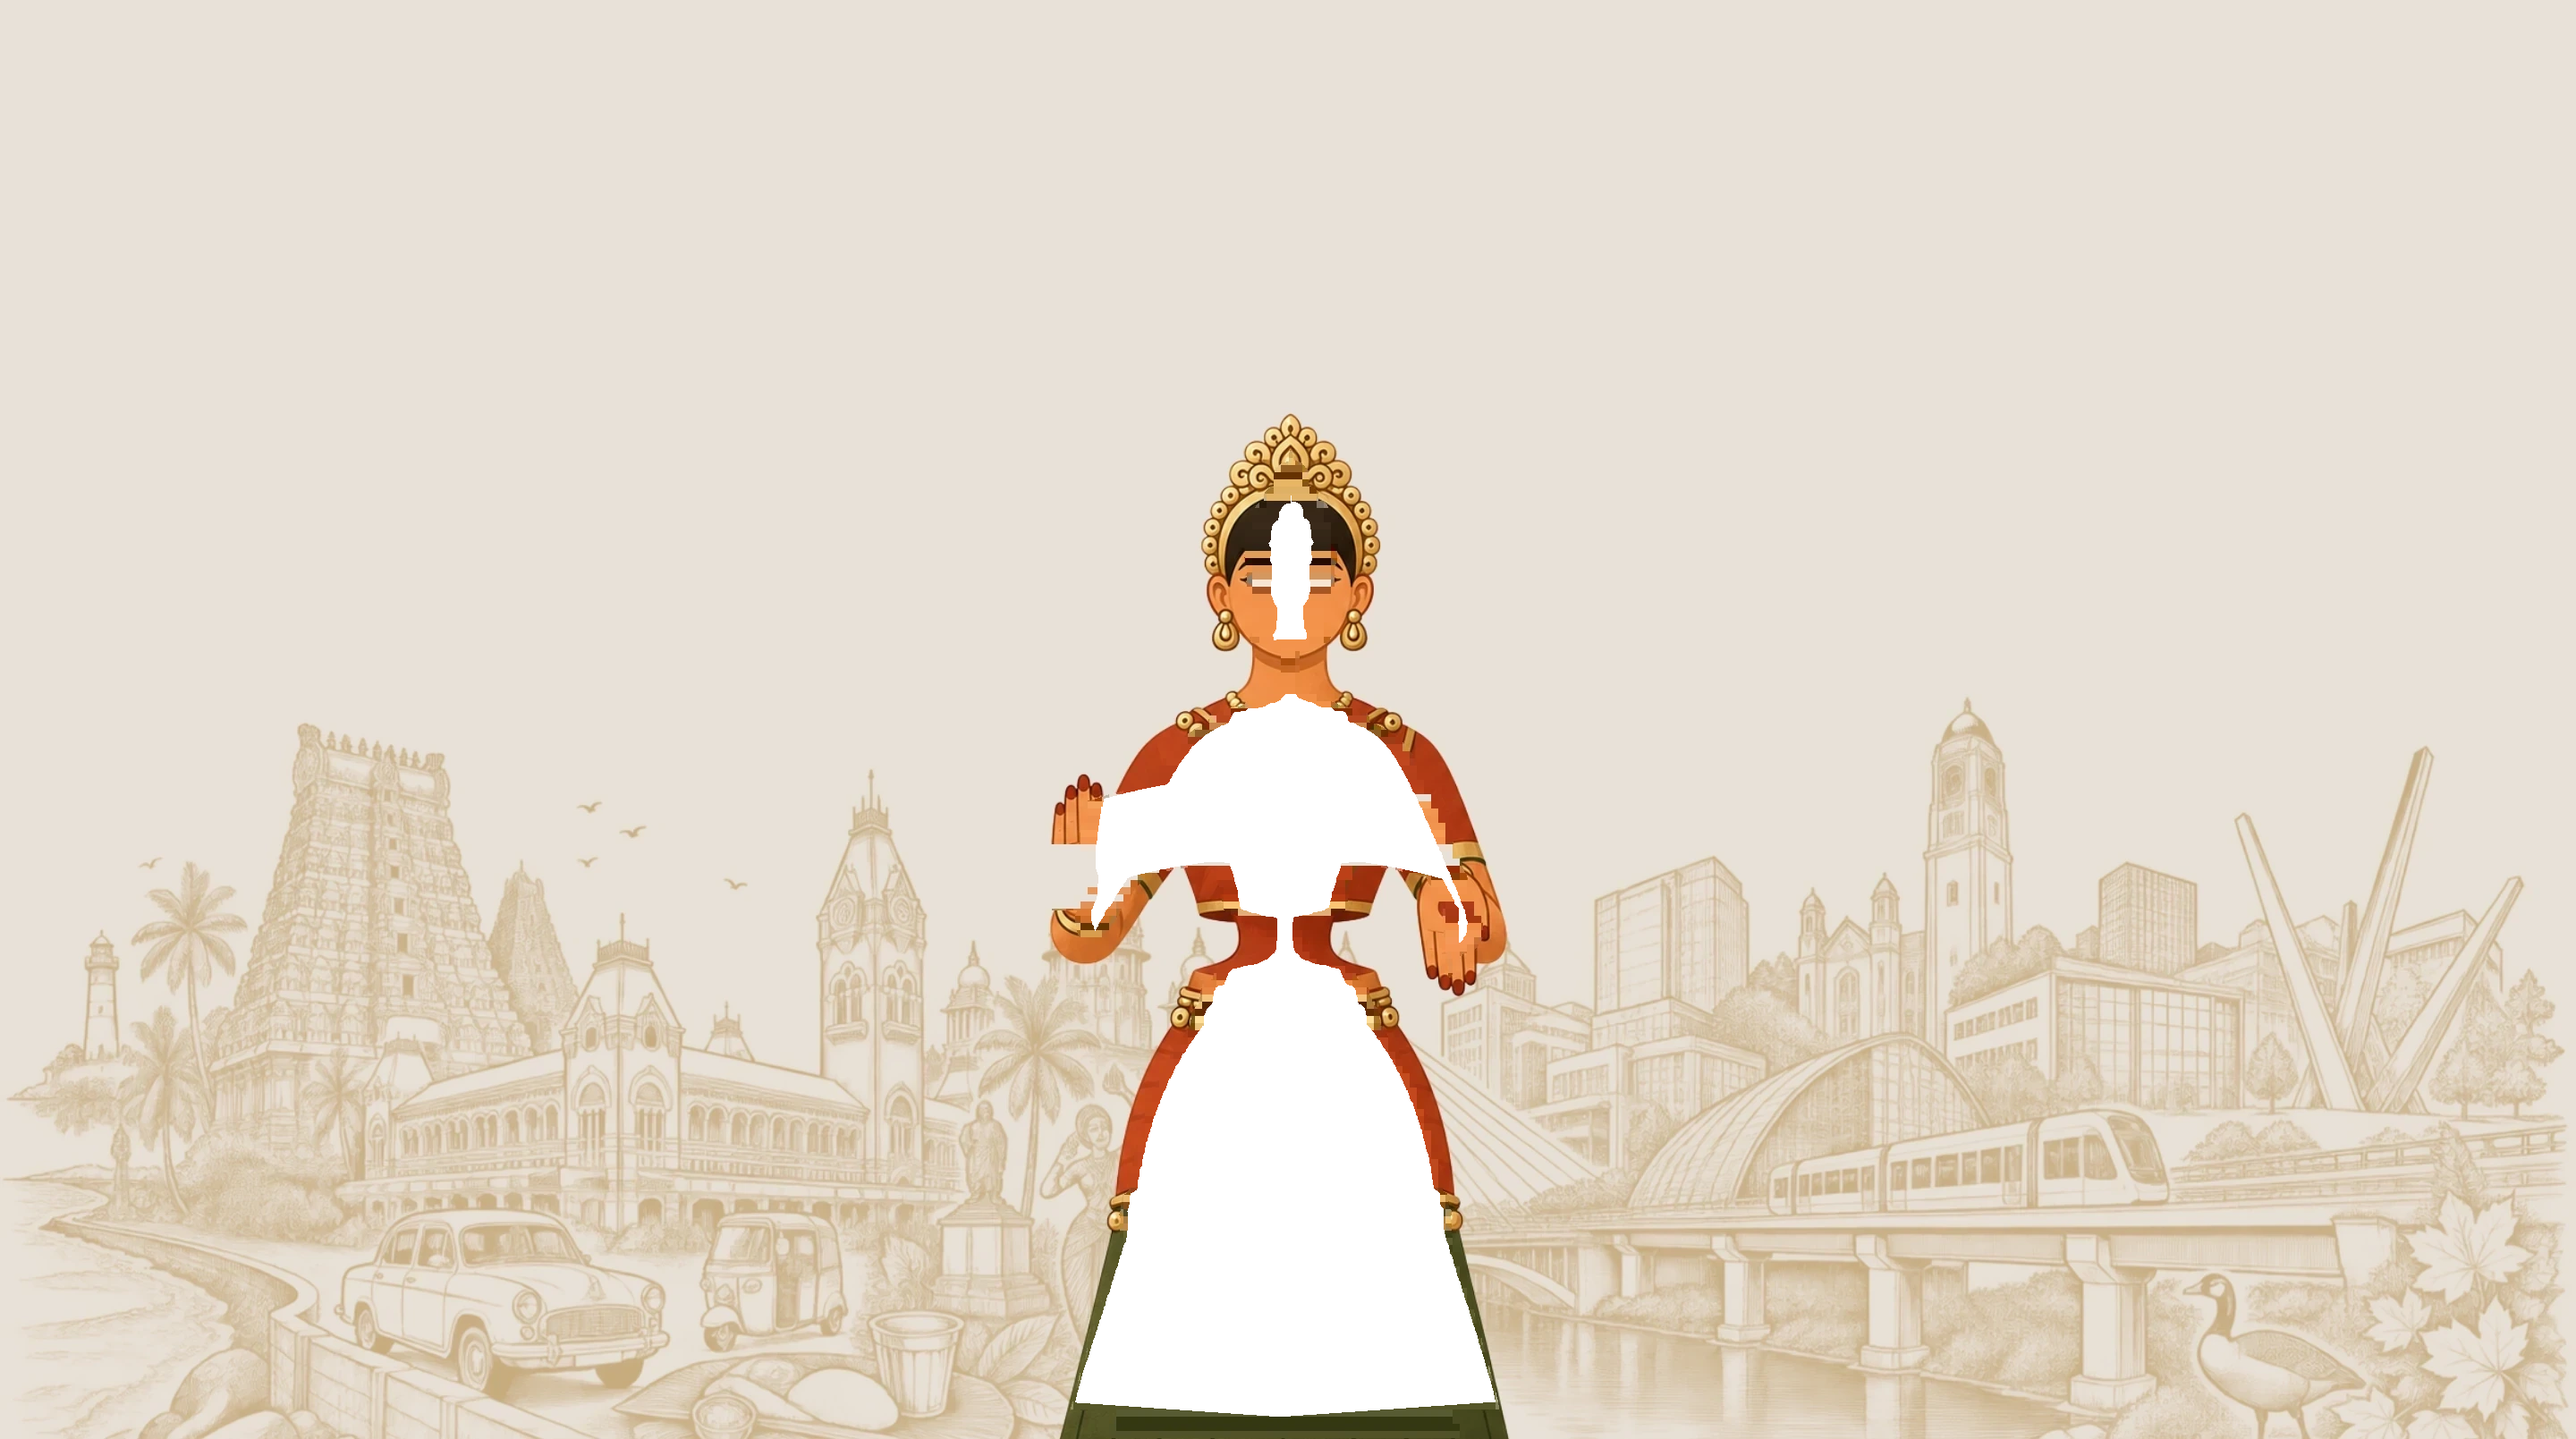
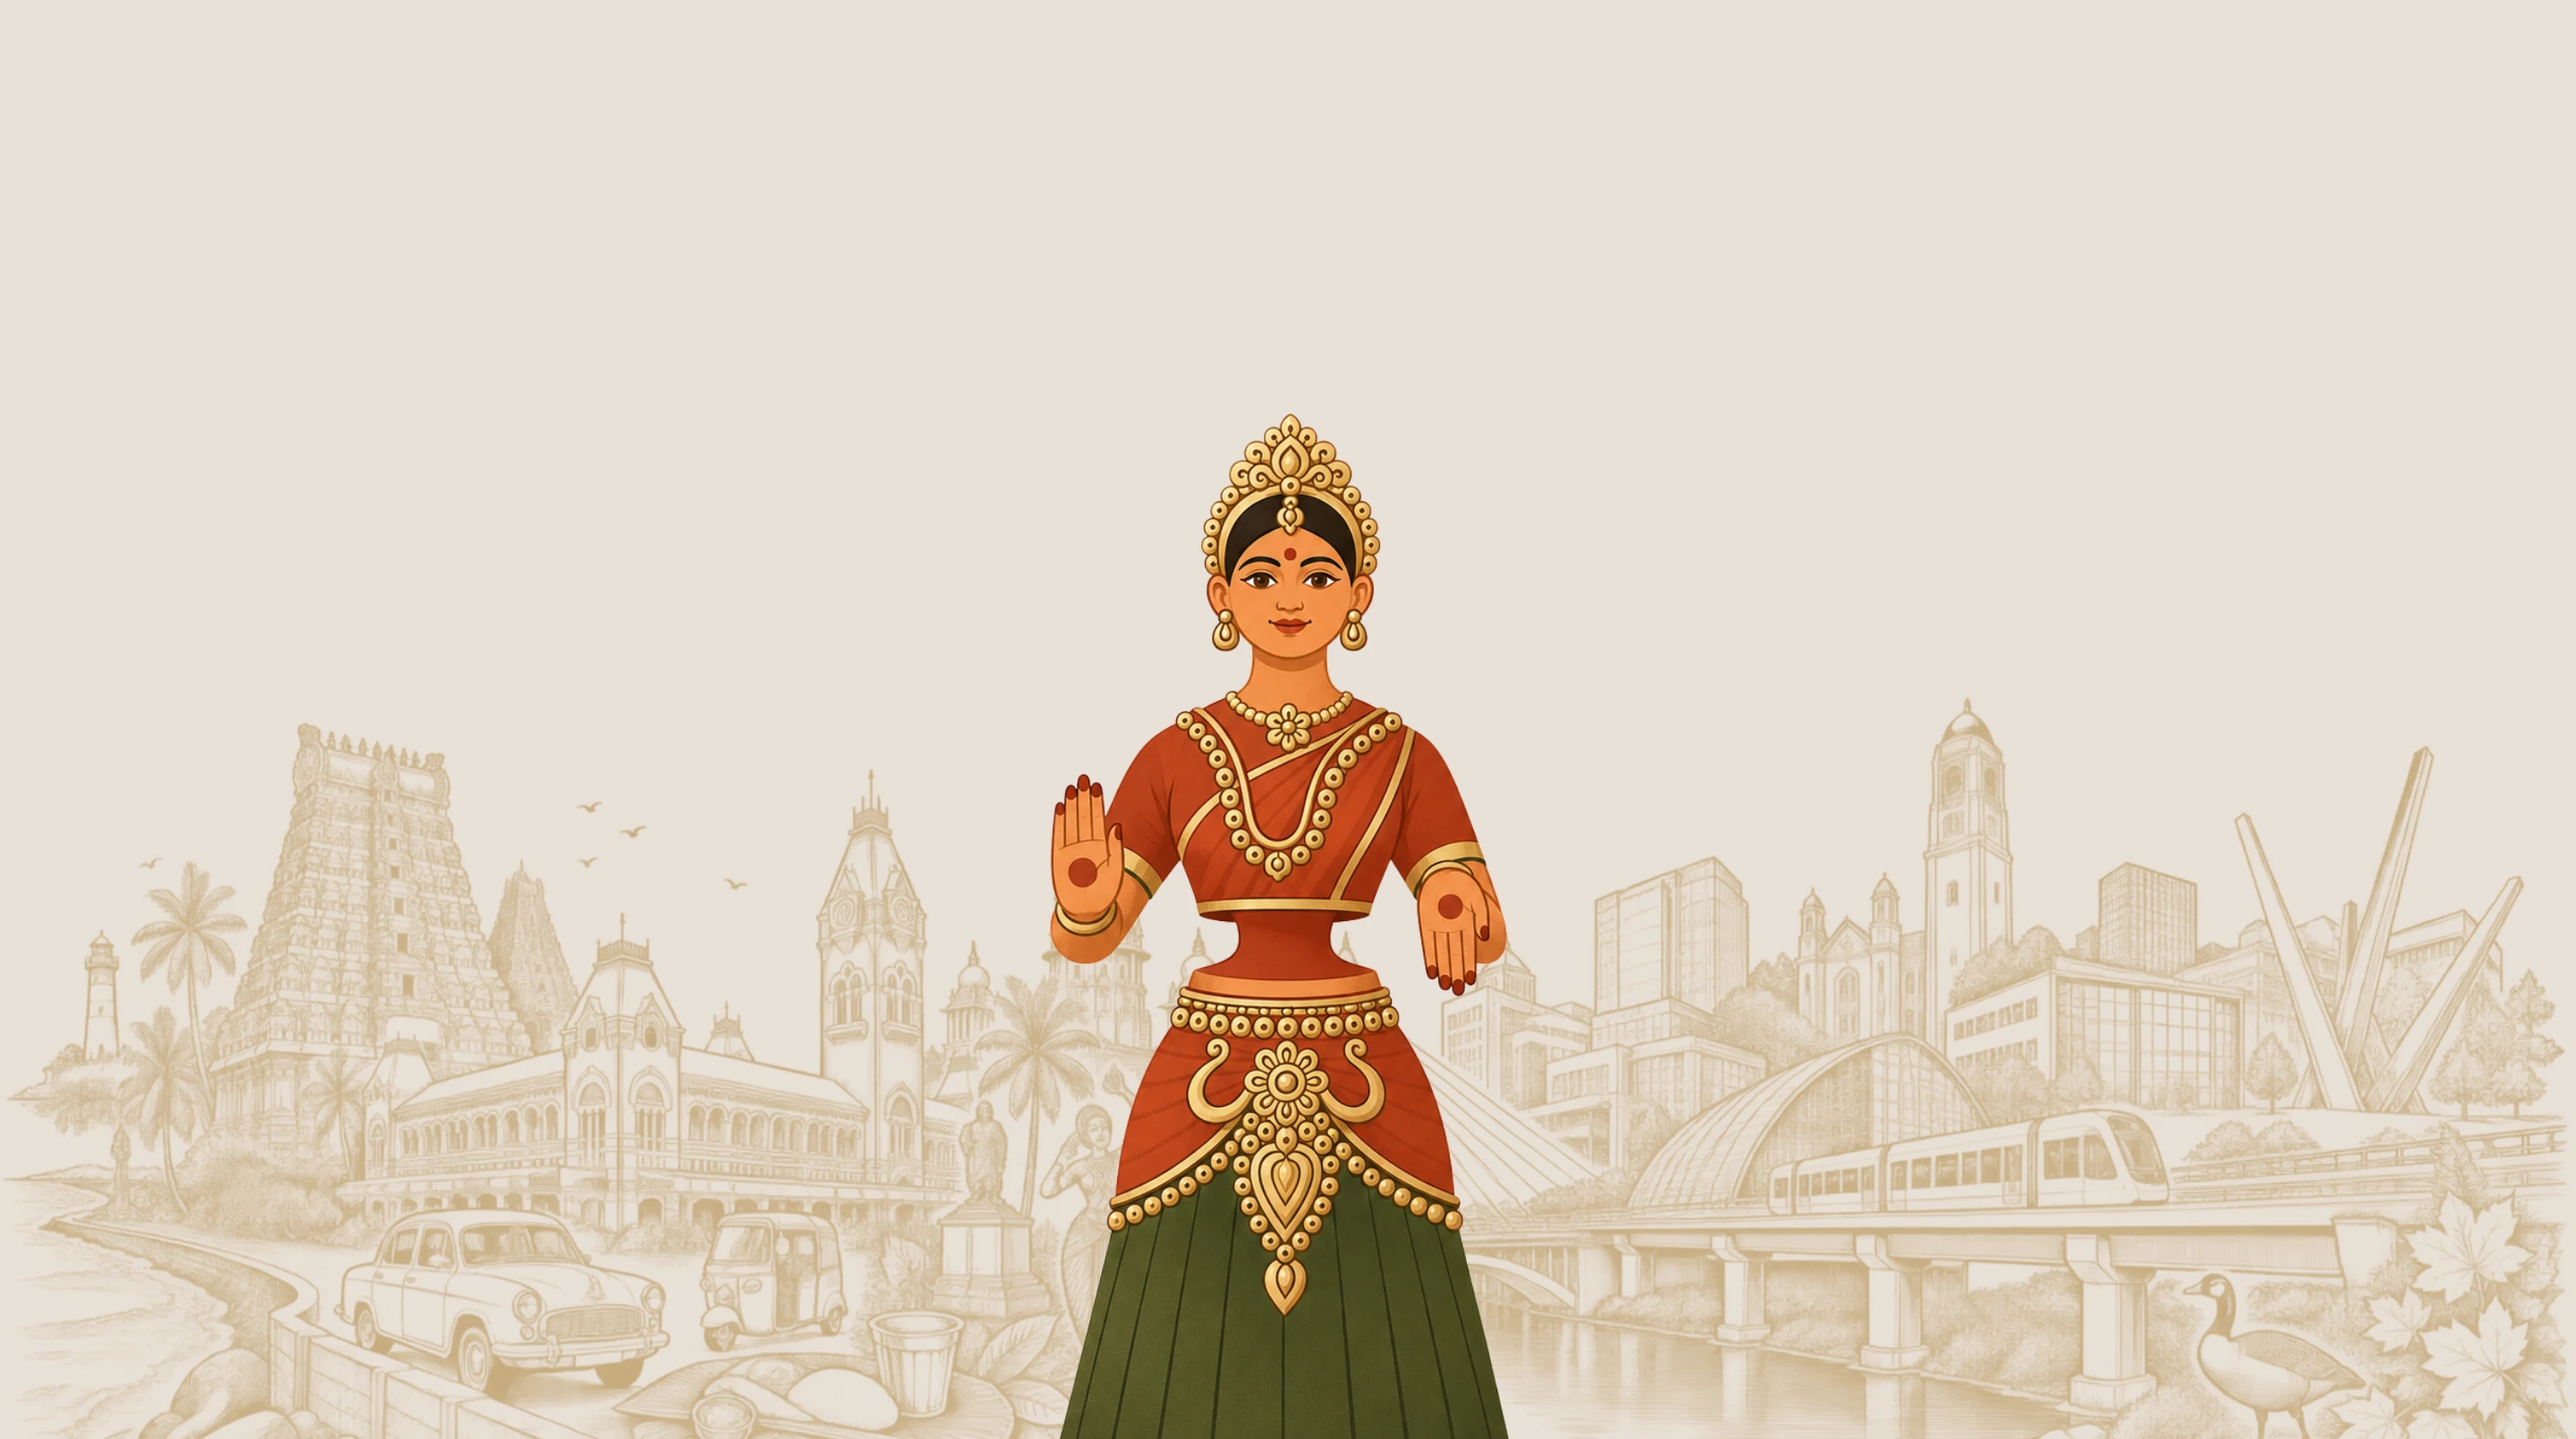
Pause doll wobble, drink-only Refreshers card, mobile nav/positioning fixes
Client: "make doll stop wobbling for now." Restored homepage-banner-desktop
/-mobile.webp to the pristine full artwork (dancer baked in, no hole —
recovered from git history before any hole-punching) and stopped rendering
the animated cutout overlay. A single flat image has no compositing seam
to have a bug in, which sidesteps the persistent artifact reports that
automated testing (2 browser engines, 12 viewport widths, dozens of
angles) could never reproduce. Overlay code and CSS left in place,
commented, with a note on exactly what to restore to re-enable.

Client: "non alcoholic refreshers remove the food image just drink image"
— that card was cycling through the general food-photography pool
alongside the one real drink photo (Mangaluru); now just Mangaluru.
Removed the now-unused general-slides pool and its imports.

Client: "Made in Waterloo... move this text a bit below on mobile" — nudged
the eyebrow/heading block off the very top edge of the green field (top:
0%→4%).

Client: "on mobile it should be reserve now button not order now" — the
mobile nav CTA linked to /menu labeled "Order Now"; now matches the
desktop CTA (Reserve Now, same URL, same accent font).

Changed region(s): [[0.4062, 0.4661, 0.5938, 0.9944], [0.4688, 0.3108, 0.5312, 0.4351]]

diff --git a/src/components/homepage/HomeHero.tsx b/src/components/homepage/HomeHero.tsx
@@ -1,8 +1,9 @@
 import { useEffect, useState } from "react";
 import heroBanner from "@/assets/homepage-banner-desktop.webp";
 import heroBannerMobile from "@/assets/homepage-banner-mobile.webp";
-import heroDancerDesktop from "@/assets/hero-dancer-desktop.webp";
-import heroDancerMobile from "@/assets/hero-dancer-mobile.webp";
+// Wobble paused — see note below. Re-import these when re-enabling:
+// import heroDancerDesktop from "@/assets/hero-dancer-desktop.webp";
+// import heroDancerMobile from "@/assets/hero-dancer-mobile.webp";
 import ScallopDivider from "./ScallopDivider";
 
 /**
@@ -104,22 +105,25 @@ const HomeHero = () => {
 
   return (
     <section className="relative w-full md:overflow-hidden" id="home">
-      <style>{`
-        @keyframes doll-wobble {
-          0%, 100% { transform: rotate(-2.5deg); }
-          50% { transform: rotate(2.5deg); }
-        }
-        .doll-wobble {
-          animation: doll-wobble 2.4s ease-in-out infinite;
-          transform-origin: 50% 100%;
-          backface-visibility: hidden;
-          -webkit-backface-visibility: hidden;
-          transform-style: preserve-3d;
-        }
-        @media (prefers-reduced-motion: reduce) {
-          .doll-wobble { animation: none; }
-        }
-      `}</style>
+      {/*
+        WOBBLE PAUSED, 2026-09-23 — client: "make doll stop wobbling for
+        now." After several rounds fixing seam/outline artifacts (see the
+        long history above), the client kept seeing a gap on their own
+        device that automated testing (2 browser engines, 12 viewport
+        widths, dozens of angles, pixel-diffed) could never reproduce —
+        meaning something about their specific rendering wasn't matched by
+        any test available here. Rather than keep shipping guesses,
+        `homepage-banner-desktop.webp` / `-mobile.webp` are back to the
+        pristine full artwork (dancer baked in, no hole — restored from git
+        history prior to any hole-punching), and the animated cutout
+        overlay is not rendered at all — a single flat image has no
+        compositing seam to have a bug in.
+
+        To re-enable: restore the hole-punched banner webp files (the git
+        history in this file's earlier comments has the exact erosion/
+        rotation-sweep parameters used), uncomment the two overlay <img>
+        elements below, and restore the `doll-wobble` keyframes/class here.
+      */}
       <h1 className="sr-only">Madras Social — A South Indian Kitchen and Bar in Waterloo</h1>
       {/* Desktop banner */}
       <img
@@ -128,14 +132,14 @@ const HomeHero = () => {
         className="hidden md:block w-full h-auto relative"
         loading="eager"
       />
-      <img
+      {/* <img
         src={heroDancerDesktop}
         alt=""
         aria-hidden="true"
         className="doll-wobble hidden md:block absolute pointer-events-none"
         style={{ left: "40.278%", top: "27.968%", width: "18.75%", height: "72.032%" }}
         loading="eager"
-      />
+      /> */}
       {/* Mobile banner — full width, no cropping */}
       <img
         src={heroBannerMobile}
@@ -143,14 +147,14 @@ const HomeHero = () => {
         className="block md:hidden w-full h-auto"
         loading="eager"
       />
-      <img
+      {/* <img
         src={heroDancerMobile}
         alt=""
         aria-hidden="true"
         className="doll-wobble block md:hidden absolute pointer-events-none"
         style={{ left: "36.237%", top: "33.666%", width: "26.72%", height: "66.334%" }}
         loading="eager"
-      />
+      /> */}
 
       {/* Desktop hero text — was vertically centred in the empty top 28% of
           the artwork, which for a short one-line headline put it right up

diff --git a/src/components/homepage/HomeMenuCategories.tsx b/src/components/homepage/HomeMenuCategories.tsx
@@ -5,11 +5,6 @@ import menuPunugulu from "@/assets/menu-punugulu.jpg";
 import menuArancini from "@/assets/menu-arancini.jpg";
 import menuShrimpWrap from "@/assets/menu-shrimp-wrap.jpg";
 import menuParotta from "@/assets/menu-parotta.jpg";
-import menuSlide1 from "@/assets/menu-slide-1.jpg";
-import menuSlide2 from "@/assets/menu-slide-2.jpg";
-import menuSlide3 from "@/assets/menu-slide-3.jpg";
-import menuSlide4 from "@/assets/menu-slide-4.jpg";
-import menuSlide5 from "@/assets/menu-slide-5.jpg";
 import menuCocktailChettinad from "@/assets/menu-cocktail-chettinad.jpg";
 import menuCocktailOoty from "@/assets/menu-cocktail-ooty.jpg";
 import menuCocktailMangaluru from "@/assets/menu-cocktail-mule.jpg";
@@ -58,11 +53,12 @@ import menuBenneMasala from "@/assets/menu-benne-masala.jpg";
  *
  * Client, same day: "use mangaluru for refreshers" — the copper-mug shot
  * from the ALCOHOLIC folder (fits Mangaluru — Curry Leaves Reposado •
- * Ginger Lime — on SIGNATURE_COCKTAILS) goes on the Madras Refreshers card
- * instead, alongside the general ambiance pool it already used.
+ * Ginger Lime — on SIGNATURE_COCKTAILS) goes on the Madras Refreshers card.
+ * Revised same day — client: "remove the food image just drink image" —
+ * dropped the general food-photography pool that card was also cycling
+ * through, so it's Mangaluru alone now.
  */
 const SLIDE_INTERVAL_MS = 3200;
-const GENERAL_SLIDES = [menuSlide1, menuSlide2, menuSlide3, menuSlide4, menuSlide5];
 const COCKTAIL_SLIDES = [menuCocktailChettinad, menuCocktailOoty];
 
 type Slide = { src: string; position?: string };
@@ -103,7 +99,11 @@ const CATEGORIES: Category[] = [
     label: "Non-Alcoholic",
     title: "Madras Refreshers",
     blurb: "Filter kapi, nannari sharbat, mango moru.",
-    slides: [{ src: menuCocktailMangaluru }, ...GENERAL_SLIDES.map((src) => ({ src }))],
+    // Client, 2026-09-23: "remove the food image just drink image" — the
+    // general food-photography pool (ambiance shots, not drinks) was
+    // filling out this slideshow alongside Mangaluru since no other
+    // drink-specific photo existed for this card. Down to just Mangaluru now.
+    slides: [{ src: menuCocktailMangaluru }],
   },
 ];
 

diff --git a/src/components/homepage/HomeNavbar.tsx b/src/components/homepage/HomeNavbar.tsx
@@ -99,16 +99,19 @@ const HomeNavbar = () => {
             RESERVE NOW
           </Link>
 
-          {/* Order Now — mobile */}
+          {/* Reserve Now — mobile. Was "Order Now" linking to /menu; client,
+              2026-09-23: "on mobile it should be reserve now button not
+              order now" — matches the desktop CTA above (same URL, same
+              accent font). */}
           <Link
-            to="/menu"
-            className="xl:hidden inline-block px-4 py-1.5 text-[10px] tracking-[0.15em] uppercase font-body font-medium border rounded-sm transition-all duration-500"
+            to={RESERVE_URL}
+            className="xl:hidden inline-block px-4 py-1.5 text-[10px] tracking-[0.15em] uppercase font-accent font-medium border rounded-sm transition-all duration-500"
             style={{
               borderColor: textColor,
               color: textColor,
             }}
           >
-            ORDER NOW
+            RESERVE NOW
           </Link>
 
           {/* Hamburger — mobile */}

diff --git a/src/components/homepage/HomeOurSpace.tsx b/src/components/homepage/HomeOurSpace.tsx
@@ -184,11 +184,13 @@ const HomeOurSpace = () => {
       </div>
 
       {/* Mobile — eyebrow + heading, hugging the top edge of the green field.
-          Height raised 8%→11% for the now two-line eyebrow. */}
+          Height raised 8%→11% for the now two-line eyebrow. Nudged down
+          from the very top edge — client, 2026-09-23: "move this text a
+          bit below on mobile". */}
       <div
         className="flex md:hidden absolute flex-col justify-start pt-[2.5%] px-6 text-center transition-all duration-700 ease-out"
         style={{
-          left: 0, right: 0, top: "0%", height: "11%",
+          left: 0, right: 0, top: "4%", height: "11%",
           opacity: visible ? 1 : 0,
           transform: visible ? "translateY(0)" : "translateY(-16px)",
         }}
